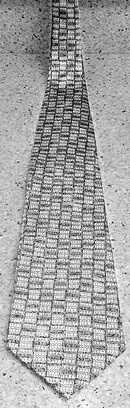
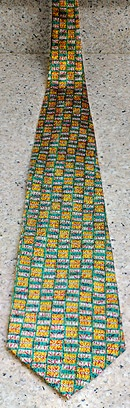
NEW FUNCTIONALITY: Added support for colored image blending

diff --git a/focus_stack.py b/focus_stack.py
@@ -108,7 +108,7 @@ def lap_focus_stacking(images, N=5, kernel_size=5):
         in Wang and Chang's 2011 paper (regional fusion)
     @input: images - array of images
             N      - Depth of Laplacian Pyramid
-            kernel_size - integer represents the side of Gaussian kernel
+            kernel_size - integer represents the side length of Gaussian kernel
     @output: single image that stacked the depth of fields of all images
     """
     # # 1 - align images
@@ -230,10 +230,6 @@ if __name__ == "__main__":
     if any([image is None for image in images]):
         raise RuntimeError("Cannot load one or more input files.")
 
-    # display original images
-    if isPlot:
-        pyplot_display(images[:, :, :, V_channel], title='Unprocessed Images (grayscale)', gray=True)
-
     # 3 - focus stacking
     if naive:
         # naive way (used for comparison)
@@ -242,13 +238,17 @@ if __name__ == "__main__":
         canvas = cv2.cvtColor(canvas, cv2.COLOR_BGR2GRAY)
     else:
         # laplacian pyramid method
-        canvas = lap_focus_stacking(images[:, :, :, V_channel], N=pyramid_depth, kernel_size=kernel_size)
+        RGB_images = np.array([cv2.cvtColor(img, cv2.COLOR_HSV2BGR) for img in images])
+        canvas = np.array([lap_focus_stacking(RGB_images[:, :, :, CHANNEL], N=pyramid_depth, kernel_size=kernel_size) for CHANNEL in range(3)])
+        canvas = np.moveaxis(canvas, 0, -1)
         # images[0][:,:,V_channel] = canvas
 
-    # show gray result
+    # show result
     if isPlot:
-        pyplot_display(canvas, title='Final Result (grayscale)', gray=True)
-        # pyplot_display(images[0], title='Colored Final Result (work in progress...)', gray=False)
+        # DISPLAY ORIGINAL IMAGES 
+        pyplot_display(RGB_images, title='Original Images (colored)', gray=False)
+        # DISPLAY RESULT
+        pyplot_display([canvas/255,], title='Final Result (Colored)', gray=False)
 
     # 4 - write to file (grayscale)
     cv2.imwrite(output_name, canvas)

diff --git a/helper.py b/helper.py
@@ -136,7 +136,10 @@ def pyplot_display(images, title='Images Display', gray=False):
         if gray:
             axs[i].imshow(image, cmap='gray')
         else:
-            axs[i].imshow(image[:, :, [2,1,0]])
+            if num_img == 1:
+                axs.imshow(image[:, :, [2,1,0]])
+            else:
+                axs[i].imshow(image[:, :, [2,1,0]])
     plt.show()
 
 
